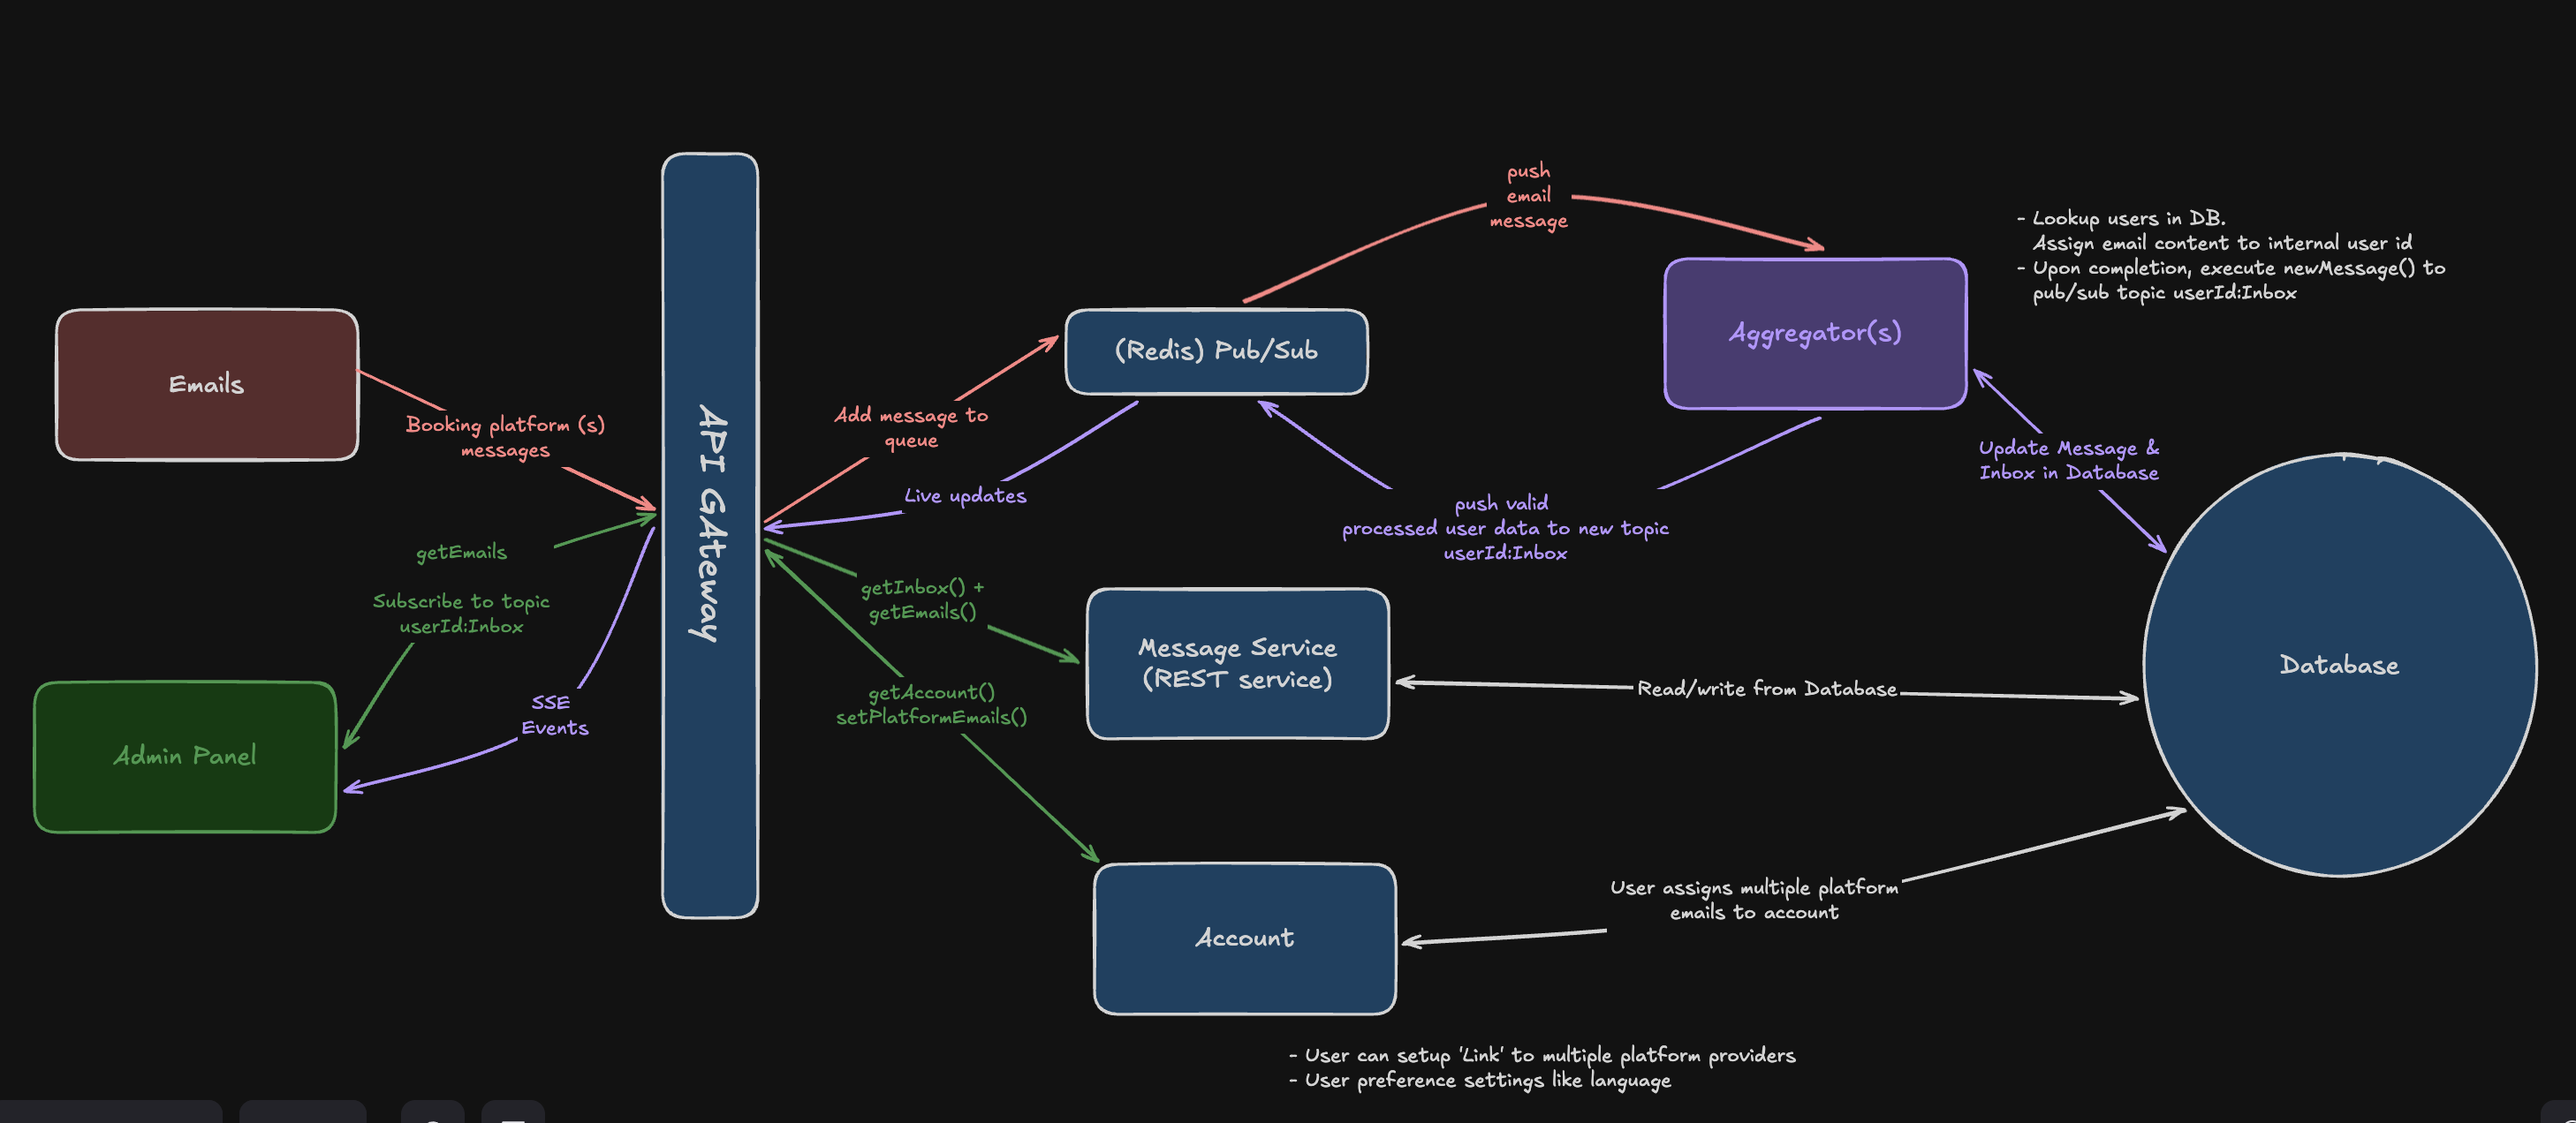
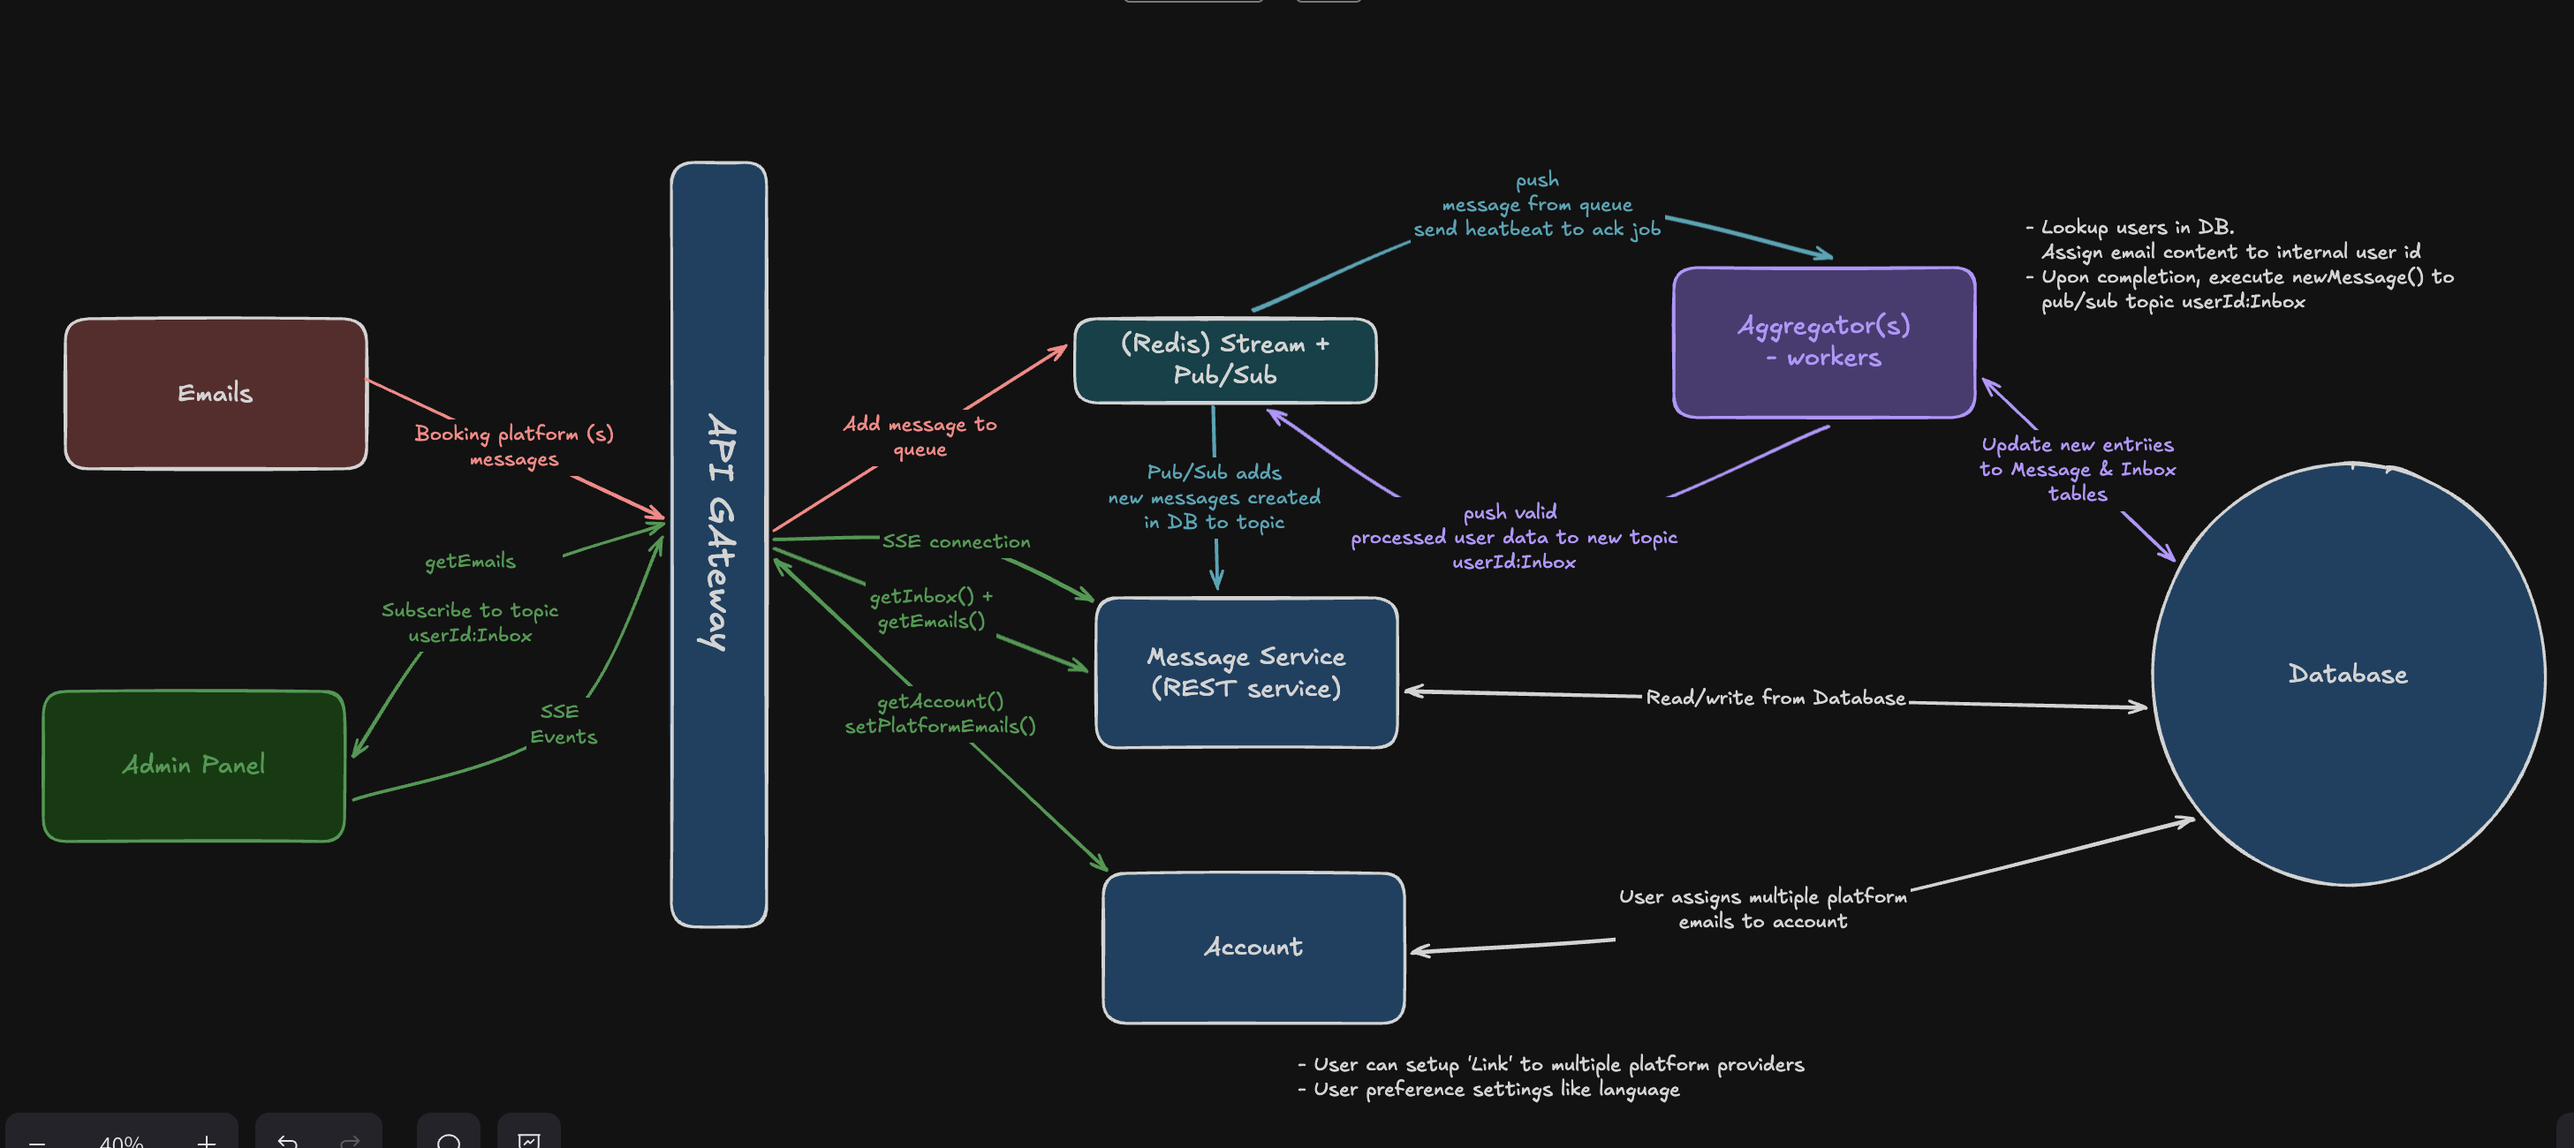
Readme update & updated diagram

diff --git a/README.md b/README.md
@@ -154,17 +154,18 @@ Go to http://localhost:5010/admin/123
 ```
 
 
-## Next Iteration Ideas
+## Next Iteration Ideas on UI
 
-- Stronger typing shared across frontend/backend (`no-explicit-any` cleanup)
 - Better optimistic update + rollback contracts for server actions (Speedy client experience)
-- Unified SSE event typing (`created` / `updated` / `deleted`)
-- Filtering, search, pagination, and richer platform badges/icons
 - More focus on UX & User state in the client, to allow richer experience
   with settings preference, i18n, and more.
-- Connect to a DB (postgres) to allow for better data management that scales well
+- Unified SSE event typing (`created` / `updated` / `deleted`). This is a one way street, but if live comms is needed, 
+  websockets would be better suited.
+- Filtering, search, pagination, and richer platform badges/icons
+- Connect to a DB (postgres) to allow for better data management that scales well. Read optimised. 
 - Alot more! Requires more discussion! See system design below.
 
+## System design of interacting services
 ![Highlevel design](./Highlevel-design.png)
 
 ## Testing architecture
